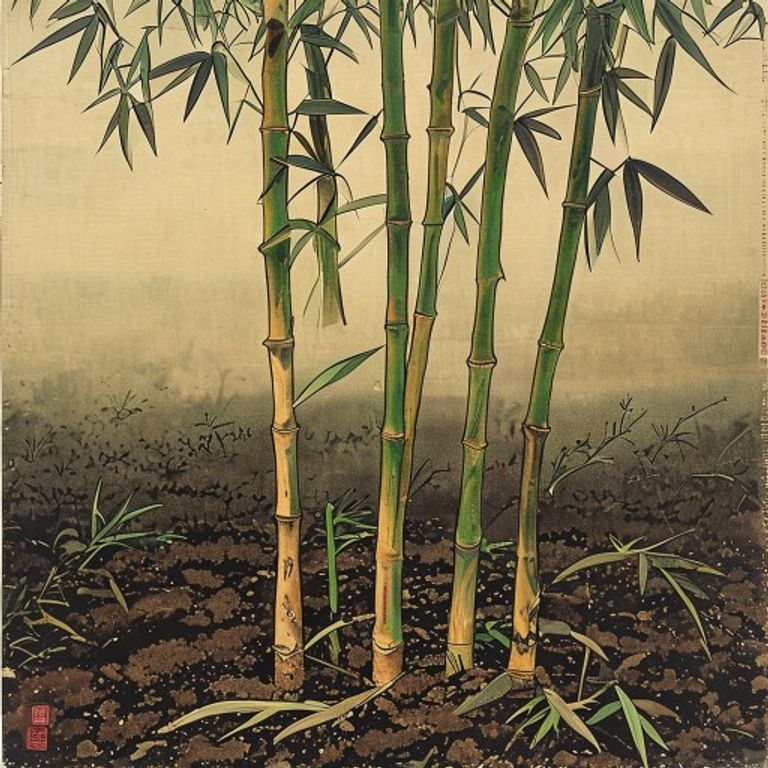
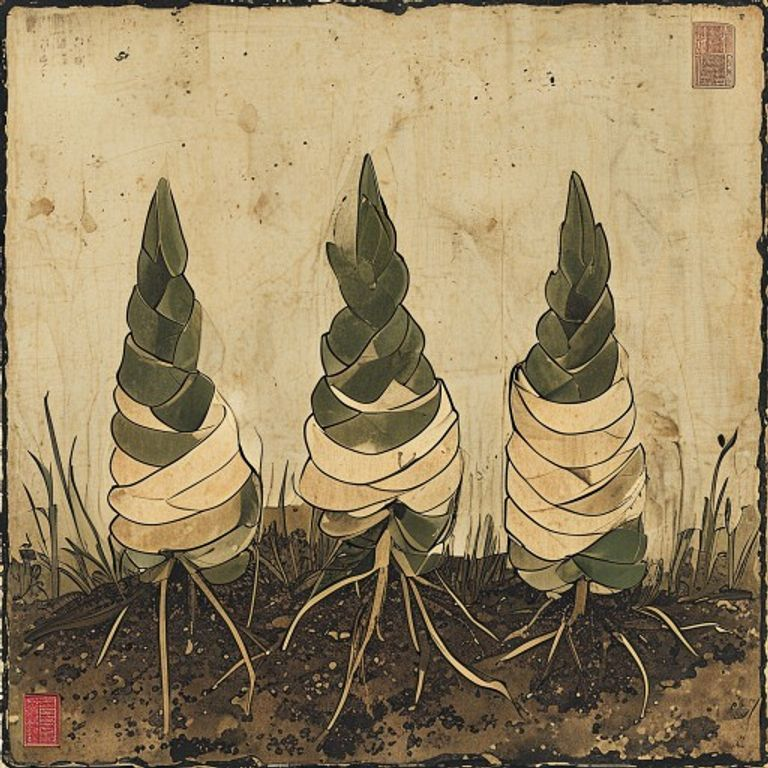
Regenerate kō #4, #21, #34 with refined Pollinations prompts
#4 (Дощ зволожує землю — Feb 19-23): bare wet earth + slanted
rain + plum branch with pink BUDS (not fruits this time) +
distant overcast mountains. Clean late-February thaw mood.

#21 (Бамбук пробивається — May 15-20): three pointed conical
takenoko sprouts wrapped in cream-and-green leaf-scales,
artichoke / pinecone silhouette, NO mature bamboo culms,
ground-level woodblock view. Required dropping the word
"bamboo" entirely from the scene description and anchoring on
"earth sprouts shaped like fat artichokes" — Flux strongly
links "bamboo" with mature culms regardless of "shoot" / "young".

#34 (Павловнія зав'язує насіння — Jul 23-28): heart-shaped
green leaves with hanging clusters. Botanically the clusters
read more as berries than as woody seed capsules, but
artistically clean and accepted as-is.

Updated SCENES dict in scripts/generate_images.py with the
final winning prompts so future regenerations stay consistent.

diff --git a/scripts/generate_images.py b/scripts/generate_images.py
@@ -99,7 +99,7 @@ SCENES = {
     18: "lush red and pink peony blossoms in a traditional Japanese garden",
     19: "a single small green frog sitting on a wet stone at the edge of shallow reeds and irises by a pond, mouth open in mid-call, ripples spreading on still water, early summer twilight, NO lotus leaves, NO lotus blossoms, NO open pink flowers, just stones and reeds, ukiyo-e woodblock",
     20: "earthworms surfacing on damp soil after rain, close-up ground view",
-    21: "three or four stout pointed young bamboo shoots takenoko breaking through dark soil and brown leaf litter in clear foreground focus, brown protective sheaths still wrapping their tips, dappled May sunlight on the ground, mature green bamboo culms softly receding into misty background, focus on the EMERGING new shoots not the established grove, ukiyo-e woodblock",
+    21: "Hokusai-style PAINTING of three SHORT SQUAT young EARTH SPROUTS, each sprout is ONLY 25 cm tall, shaped like a fat artichoke or a giant pinecone, wrapped in horizontal bands of brown-and-cream overlapping LEAF SCALES, fat at the base and tapering to a sharp pointed tip, half-buried in dark forest soil with brown leaf litter, May spring growth, the sprouts are SOLID and CLOSED, the sprouts are SHORT (knee-height only), the sprouts DO NOT have any green leaves, DO NOT have stalks, DO NOT extend into trees, ground-level woodblock view, flat color fields with bold ink outlines on aged washi paper, painterly NOT photographic, soft misty empty background with NO trees, NO tall plants, NO bamboo of any kind, NO grove, NO green growth above the sprouts, just three small wrapped pointed cones sitting in dark earth like artichokes, traditional Japanese woodblock print",
     22: "silkworms feeding on green mulberry leaves, close-up of delicate creatures",
     23: "fields of orange-red safflower blooms stretching to horizon",
     24: "traditional Japanese peasant farmers with straw hats harvesting golden wheat using sickles, stacked bundles of wheat, early summer countryside, ukiyo-e painting",
